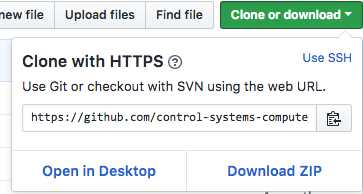
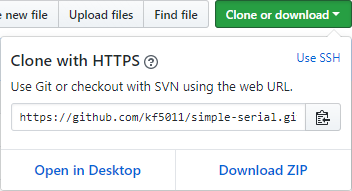
redone some screen grabs for renamed organisation

diff --git a/getting-started.md b/getting-started.md
@@ -47,13 +47,13 @@ To clone the repository click on the green "Clone or download" button
 You can pset the url into the command line for the `git clone` command
 
    ```shell_session
-    $ git clone https://github.com/control-systems-computer-networks/simple-serial
+    $ git clone https://github.com/kf5011/simple-serial.git
    ```
 
 If it clones sucessfully you'll see something like
 
    ```shell_session
-   $ git clone https://github.com/control-systems-computer-networks/simple-serial
+   $ git clone https://github.com/kf5011/simple-serial.git
    Cloning into 'simple-serial'...
    remote: Counting objects: 17, done.
    remote: Total 17 (delta 0), reused 0 (delta 0), pack-reused 17
